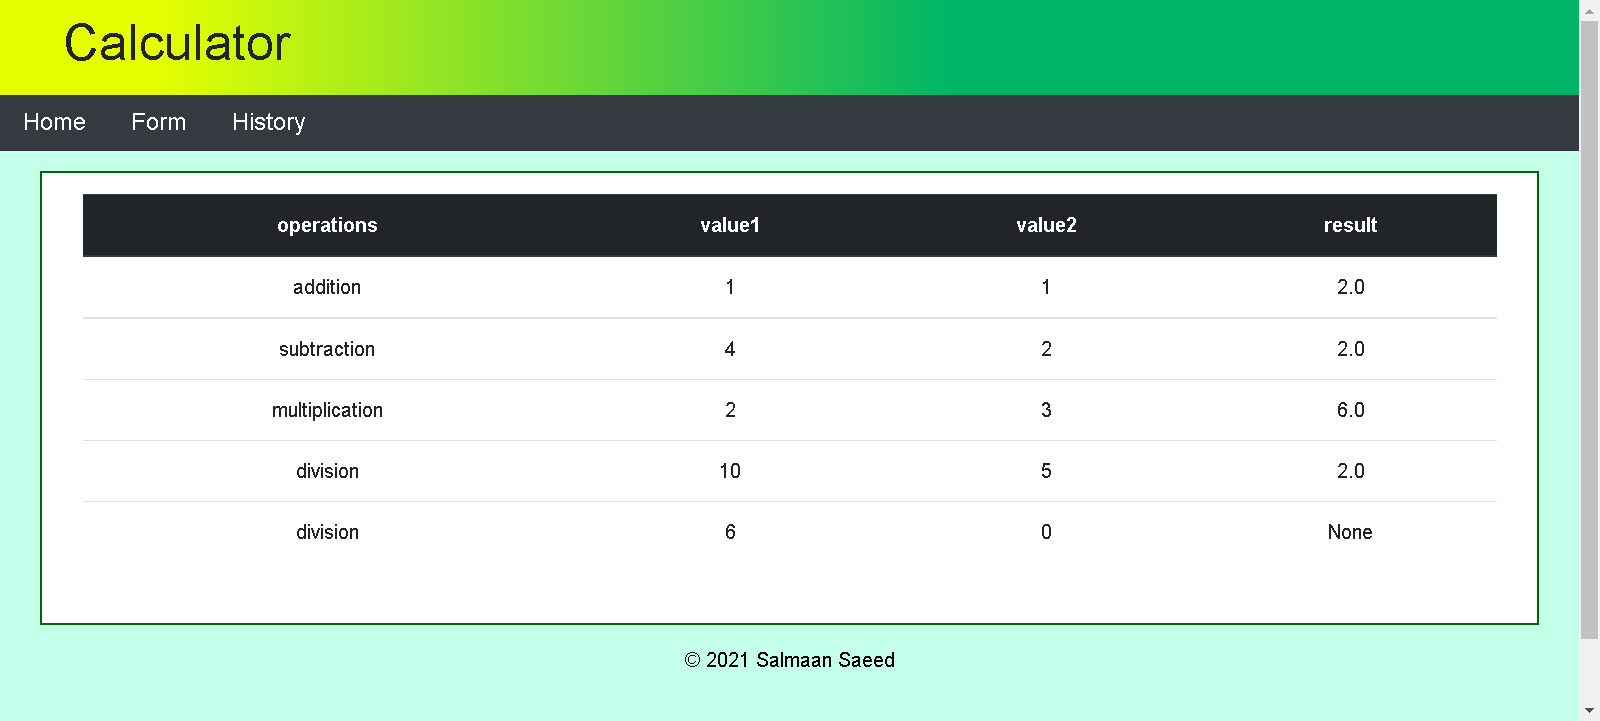
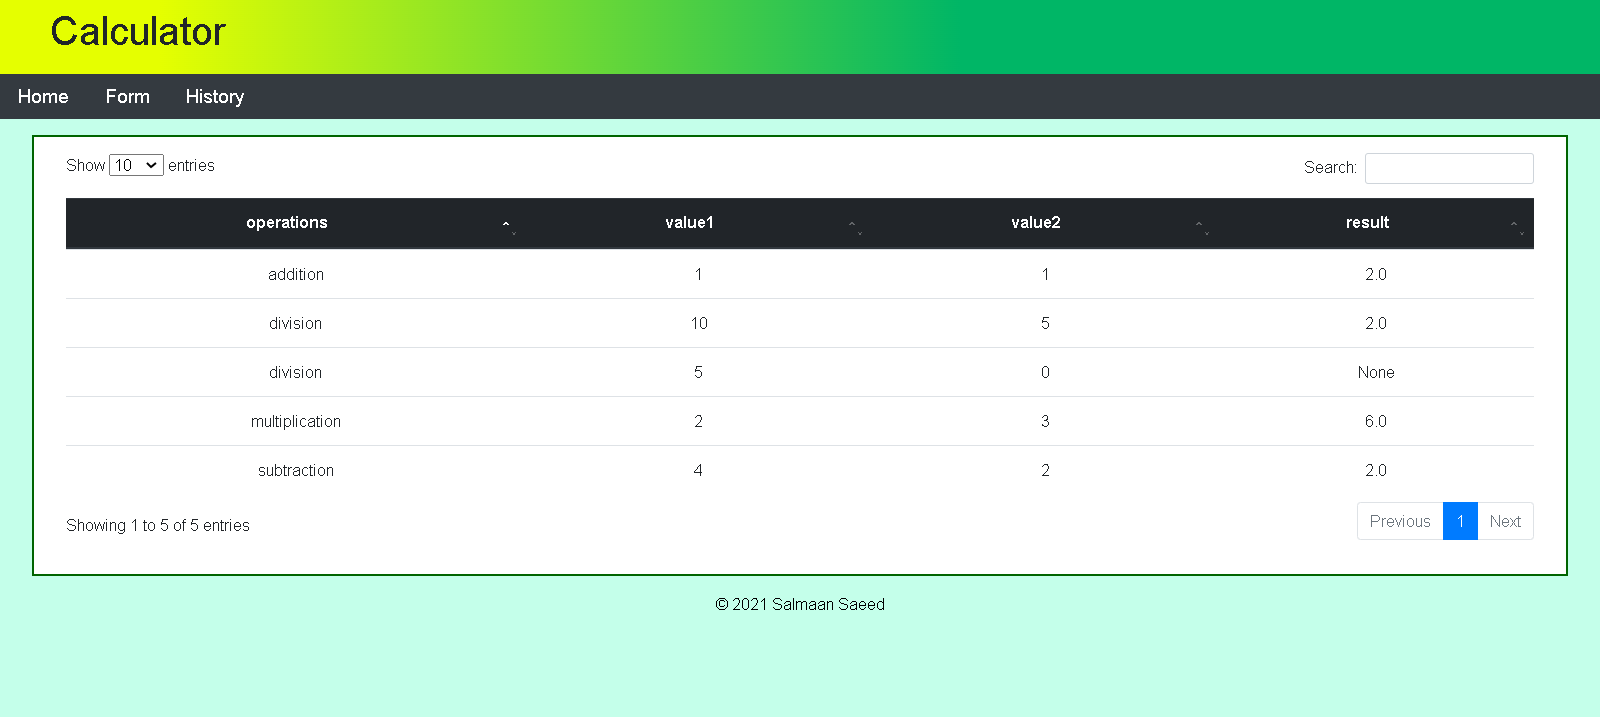
Made sure the table is using datatables

diff --git a/app/templates/base.html b/app/templates/base.html
@@ -13,6 +13,7 @@
 		    crossorigin="anonymous">
         <!-- Linking my stylesheet file to this html page -->
         <link rel="stylesheet" href="../static/styles.css">
+        <link rel="stylesheet" type="text/css" href="https://cdn.datatables.net/1.10.25/css/dataTables.bootstrap5.css">
         {% endblock %}
         <meta charset="UTF-8">
         <title>Title</title>
@@ -38,6 +39,10 @@
                 </div>
             </nav>
             {% endblock %}
+            <script type="text/javascript" charset="utf8" src="https://code.jquery.com/jquery-3.6.0.min.js"></script>
+            <script type="text/javascript" charset="utf8" src="https://cdn.datatables.net/1.10.25/js/jquery.dataTables.js"></script>
+            <script type="text/javascript" charset="utf8" src="https://cdn.datatables.net/1.10.25/js/dataTables.bootstrap5.js"></script>
+            {% block scripts %}{% endblock %}
         </header>
         <div class="content"> {% block content%}{% endblock %} </div>
         <footer>

diff --git a/app/templates/history.html b/app/templates/history.html
@@ -3,7 +3,7 @@
 	{{ super() }}
 {% endblock %}
 {% block content %}
-<table class="table">
+<table class="table" id="data">
 	<thead class="thead-dark">
 		<tr>
 			<th>{{operation}}</th>
@@ -21,4 +21,11 @@
 	</tr>
 {% endfor %}
 </table>
+{% block scripts %}
+  <script>
+    $(document).ready(function () {
+      $('#data').DataTable();
+    });
+  </script>
+{% endblock %}
 {% endblock %}
